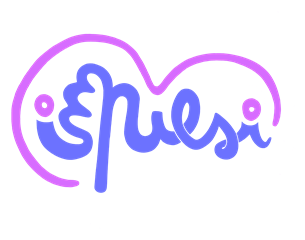
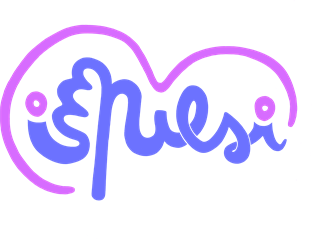
Link della community WhatsApp e loghi su sfondo trasparente
- Inserito il link d'invito della community WhatsApp: i pulsanti in
  Contatti e nel footer ora funzionano.
- Loghi di chi ci sostiene rifatti con sfondo trasparente (il bianco
  di sfondo tolto, il logo della Fondazione CR Alessandria passato da
  bianco su blu a blu su trasparente).
- In home i loghi stanno direttamente sul fondo crema, senza tessere;
  nel footer su una fascia crema continua.

Changed region(s): [[0.0, 0.0875, 0.9738, 0.8458], [0.5607, 0.3792, 0.5902, 0.4083], [0.5016, 0.4375, 0.5311, 0.4667]]

diff --git a/assets/css/stile.css b/assets/css/stile.css
@@ -489,6 +489,8 @@ main > .sezione:nth-of-type(even)::after {
   gap: 1.25rem;
 }
 .contatto .bottone-instagram { white-space: nowrap; margin-top: .4rem; }
+.contatto .bottone-instagram,
+.contatto .bottone-whatsapp { font-size: .9rem; max-width: 100%; }
 .contatto { display: grid; gap: .35rem; align-content: start; }
 .contatto .blocco__icona { margin-bottom: .5rem; }
 .contatto__valore {
@@ -743,37 +745,34 @@ main > .sezione:nth-of-type(even)::after {
 
 .piede__social { display: flex; flex-wrap: wrap; gap: .6rem; align-items: center; }
 
-/* loghi di chi ci sostiene: in home, su tessere bianche */
+/* loghi di chi ci sostiene: in home, direttamente sul fondo crema */
 .loghi {
   display: flex;
   flex-wrap: wrap;
   justify-content: center;
-  gap: 1rem;
+  align-items: center;
+  gap: clamp(1.5rem, 4vw, 3rem) clamp(2rem, 5vw, 4rem);
+  max-width: 1000px;
+  margin-inline: auto;
 }
 .logo-tessera {
-  flex: 0 1 calc((100% - 3rem) / 4);
-  min-width: 140px;
-  height: 140px;
   display: grid;
   place-items: center;
-  padding: 1rem 1.25rem;
-  background: var(--bianco);
-  border: 2px solid var(--crema-scura);
-  border-radius: var(--raggio);
-  transition: transform .25s ease, box-shadow .25s ease;
+  height: 110px;
+  transition: transform .3s cubic-bezier(.34, 1.56, .64, 1);
 }
 .logo-tessera img {
-  max-width: 100%;
   max-height: 96px;
+  max-width: 220px;
   object-fit: contain;
 }
-.logo-tessera:hover { transform: translateY(-4px) rotate(-1deg); box-shadow: 0 8px 0 var(--salvia); }
+.logo-tessera:hover { transform: translateY(-4px) rotate(-2deg) scale(1.04); }
 @media (max-width: 760px) {
-  .logo-tessera { flex-basis: calc((100% - 1rem) / 2); height: 110px; }
-  .logo-tessera img { max-height: 72px; }
+  .logo-tessera { height: 80px; }
+  .logo-tessera img { max-height: 66px; max-width: 150px; }
 }
 
-/* loghi piccoli nel footer */
+/* loghi piccoli nel footer: una fascia crema continua, senza riquadri */
 .piede__sostenitori {
   position: relative;
   z-index: 1;
@@ -784,17 +783,16 @@ main > .sezione:nth-of-type(even)::after {
 .piede__sostenitori ul {
   display: flex;
   flex-wrap: wrap;
-  gap: .5rem;
+  align-items: center;
+  justify-content: center;
+  gap: 1rem 2rem;
+  padding: 1rem 1.5rem;
+  background: var(--crema);
+  border-radius: 999px;
 }
-.piede__logo-sostenitore {
-  display: grid;
-  place-items: center;
-  height: 52px;
-  padding: 6px 12px;
-  background: var(--bianco);
-  border-radius: 12px;
-}
-.piede__logo-sostenitore img { max-height: 38px; max-width: 120px; object-fit: contain; }
+@media (max-width: 760px) { .piede__sostenitori ul { border-radius: 24px; gap: .9rem 1.4rem; } }
+.piede__logo-sostenitore { display: grid; place-items: center; height: 44px; }
+.piede__logo-sostenitore img { max-height: 40px; max-width: 120px; object-fit: contain; }
 
 .piede__logo {
   width: 200px;

diff --git a/assets/js/piede.js b/assets/js/piede.js
@@ -22,7 +22,7 @@ const PIEDE = {
   // Link d'invito della community WhatsApp, del tipo
   // 'https://chat.whatsapp.com/...'. Finché è vuoto, sul sito
   // compare un segnaposto giallo al posto del pulsante.
-  whatsapp: '',
+  whatsapp: 'https://chat.whatsapp.com/DrVZSq2NGnF6IJlPnNe8wJ',
 
   // Chi ci sostiene: loghi in home (grandi) e nel footer (piccoli).
   // File in assets/img/loghi/web/. "sito" è facoltativo: se c'è,
